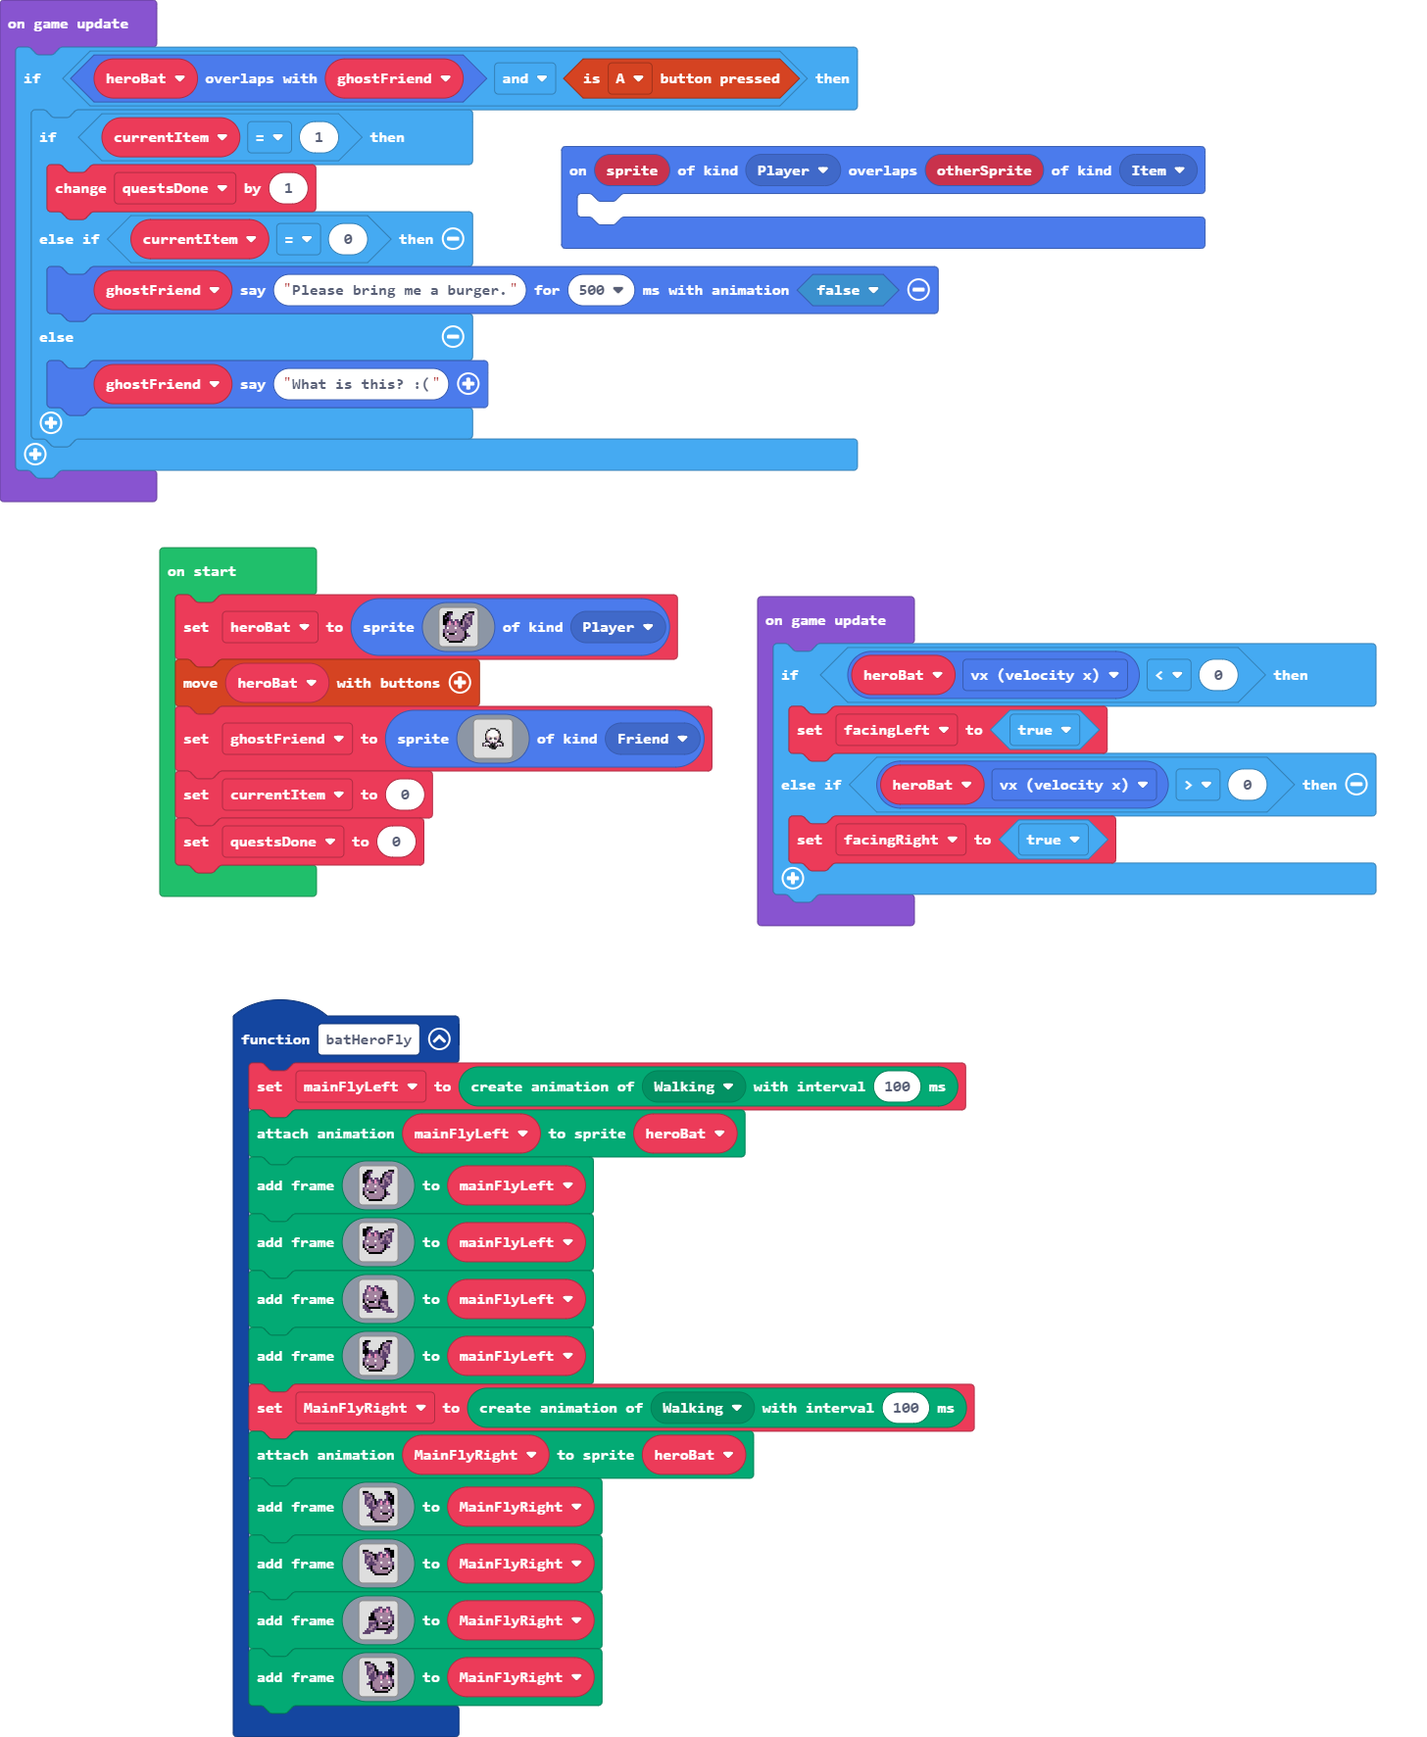
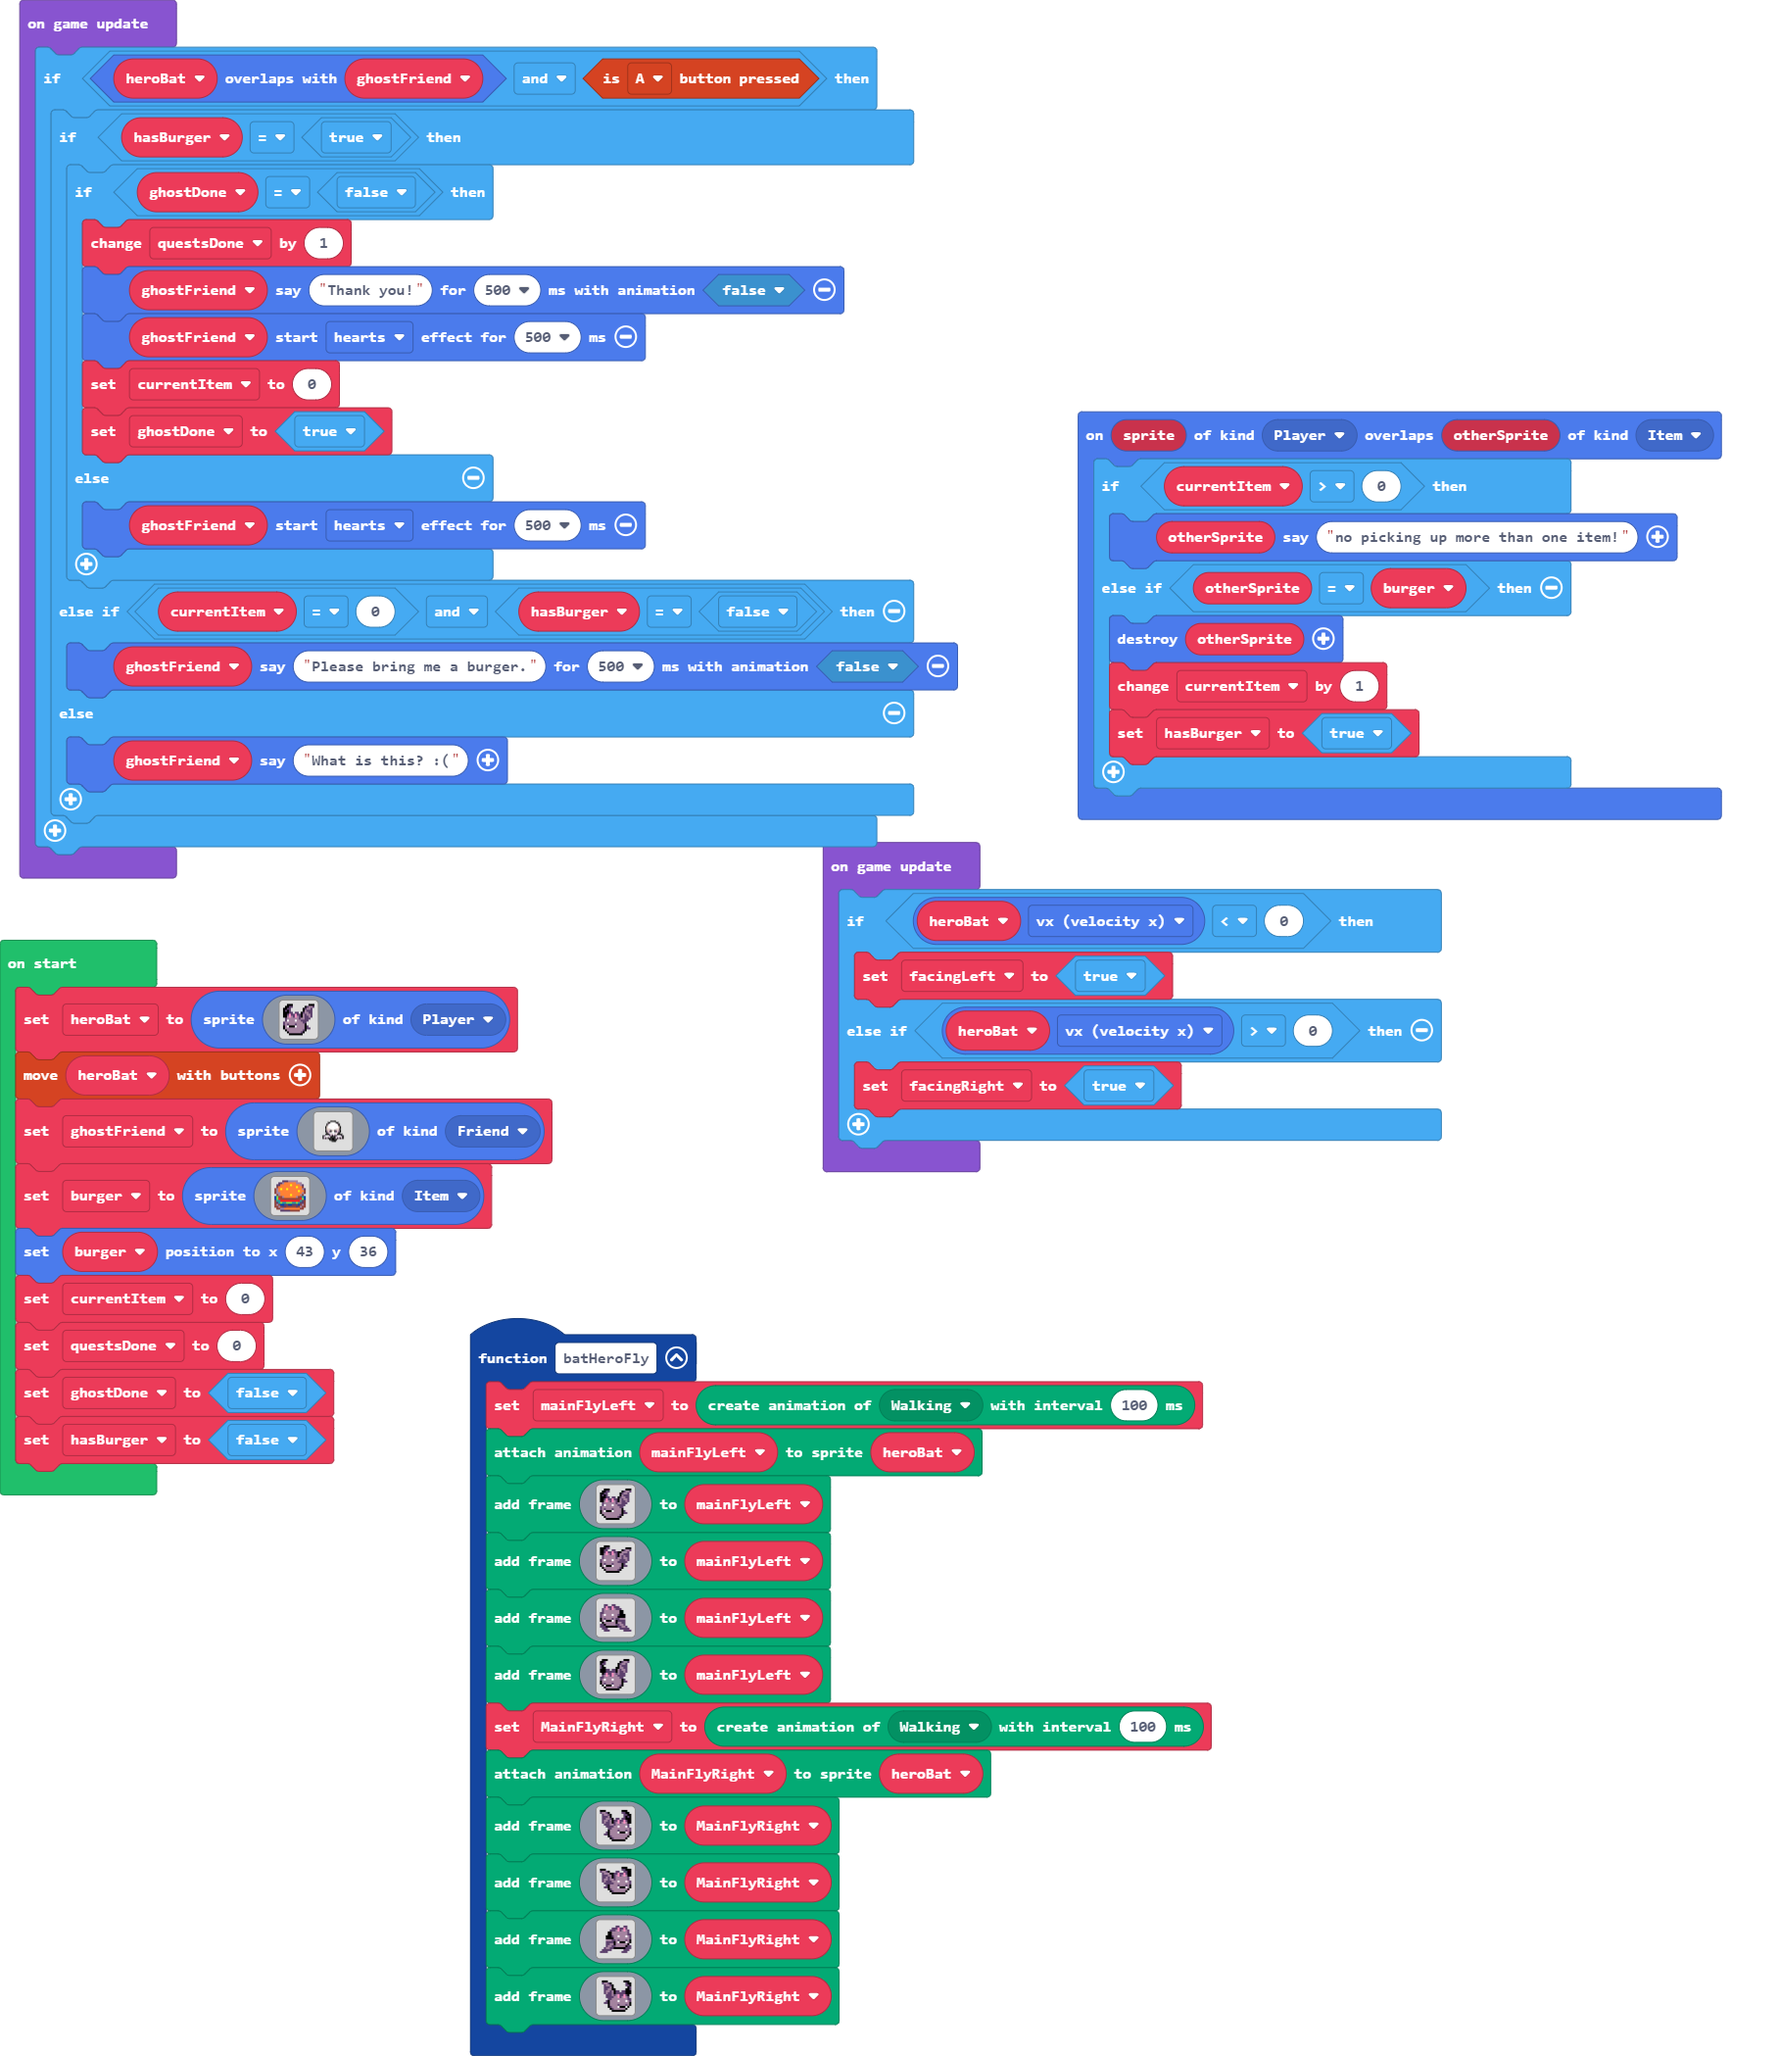
quest code thingy ghost

diff --git a/main.ts b/main.ts
@@ -8,7 +8,13 @@ namespace SpriteKind {
     export const Item = SpriteKind.create()
 }
 sprites.onOverlap(SpriteKind.Player, SpriteKind.Item, function (sprite, otherSprite) {
-	
+    if (currentItem > 0) {
+        otherSprite.sayText("no picking up more than one item!")
+    } else if (otherSprite == burger) {
+        otherSprite.destroy()
+        currentItem += 1
+        hasBurger = true
+    }
 })
 function batHeroFly () {
     mainFlyLeft = animation.createAnimation(ActionKind.Walking, 100)
@@ -164,6 +170,9 @@ let facingRight = false
 let facingLeft = false
 let MainFlyRight: animation.Animation = null
 let mainFlyLeft: animation.Animation = null
+let hasBurger = false
+let currentItem = 0
+let burger: Sprite = null
 let heroBat: Sprite = null
 heroBat = sprites.create(img`
     . . f f f . . . . . . . . f f f 
@@ -210,13 +219,42 @@ let ghostFriend = sprites.create(img`
     ........................
     ........................
     `, SpriteKind.Friend)
-let currentItem = 0
+burger = sprites.create(img`
+    . . . . c c c b b b b b . . . . 
+    . . c c b 4 4 4 4 4 4 b b b . . 
+    . c c 4 4 4 4 4 5 4 4 4 4 b c . 
+    . e 4 4 4 4 4 4 4 4 4 5 4 4 e . 
+    e b 4 5 4 4 5 4 4 4 4 4 4 4 b c 
+    e b 4 4 4 4 4 4 4 4 4 4 5 4 4 e 
+    e b b 4 4 4 4 4 4 4 4 4 4 4 b e 
+    . e b 4 4 4 4 4 5 4 4 4 4 b e . 
+    8 7 e e b 4 4 4 4 4 4 b e e 6 8 
+    8 7 2 e e e e e e e e e e 2 7 8 
+    e 6 6 2 2 2 2 2 2 2 2 2 2 6 c e 
+    e c 6 7 6 6 7 7 7 6 6 7 6 c c e 
+    e b e 8 8 c c 8 8 c c c 8 e b e 
+    e e b e c c e e e e e c e b e e 
+    . e e b b 4 4 4 4 4 4 4 4 e e . 
+    . . . c c c c c e e e e e . . . 
+    `, SpriteKind.Item)
+burger.setPosition(43, 36)
+currentItem = 0
 let questsDone = 0
+let ghostDone = false
+hasBurger = false
 game.onUpdate(function () {
     if (heroBat.overlapsWith(ghostFriend) && controller.A.isPressed()) {
-        if (currentItem == 1) {
-            questsDone += 1
-        } else if (currentItem == 0) {
+        if (hasBurger == true) {
+            if (ghostDone == false) {
+                questsDone += 1
+                ghostFriend.sayText("Thank you!", 500, false)
+                ghostFriend.startEffect(effects.hearts, 500)
+                currentItem = 0
+                ghostDone = true
+            } else {
+                ghostFriend.startEffect(effects.hearts, 500)
+            }
+        } else if (currentItem == 0 && hasBurger == false) {
             ghostFriend.sayText("Please bring me a burger.", 500, false)
         } else {
             ghostFriend.sayText("What is this? :(")
